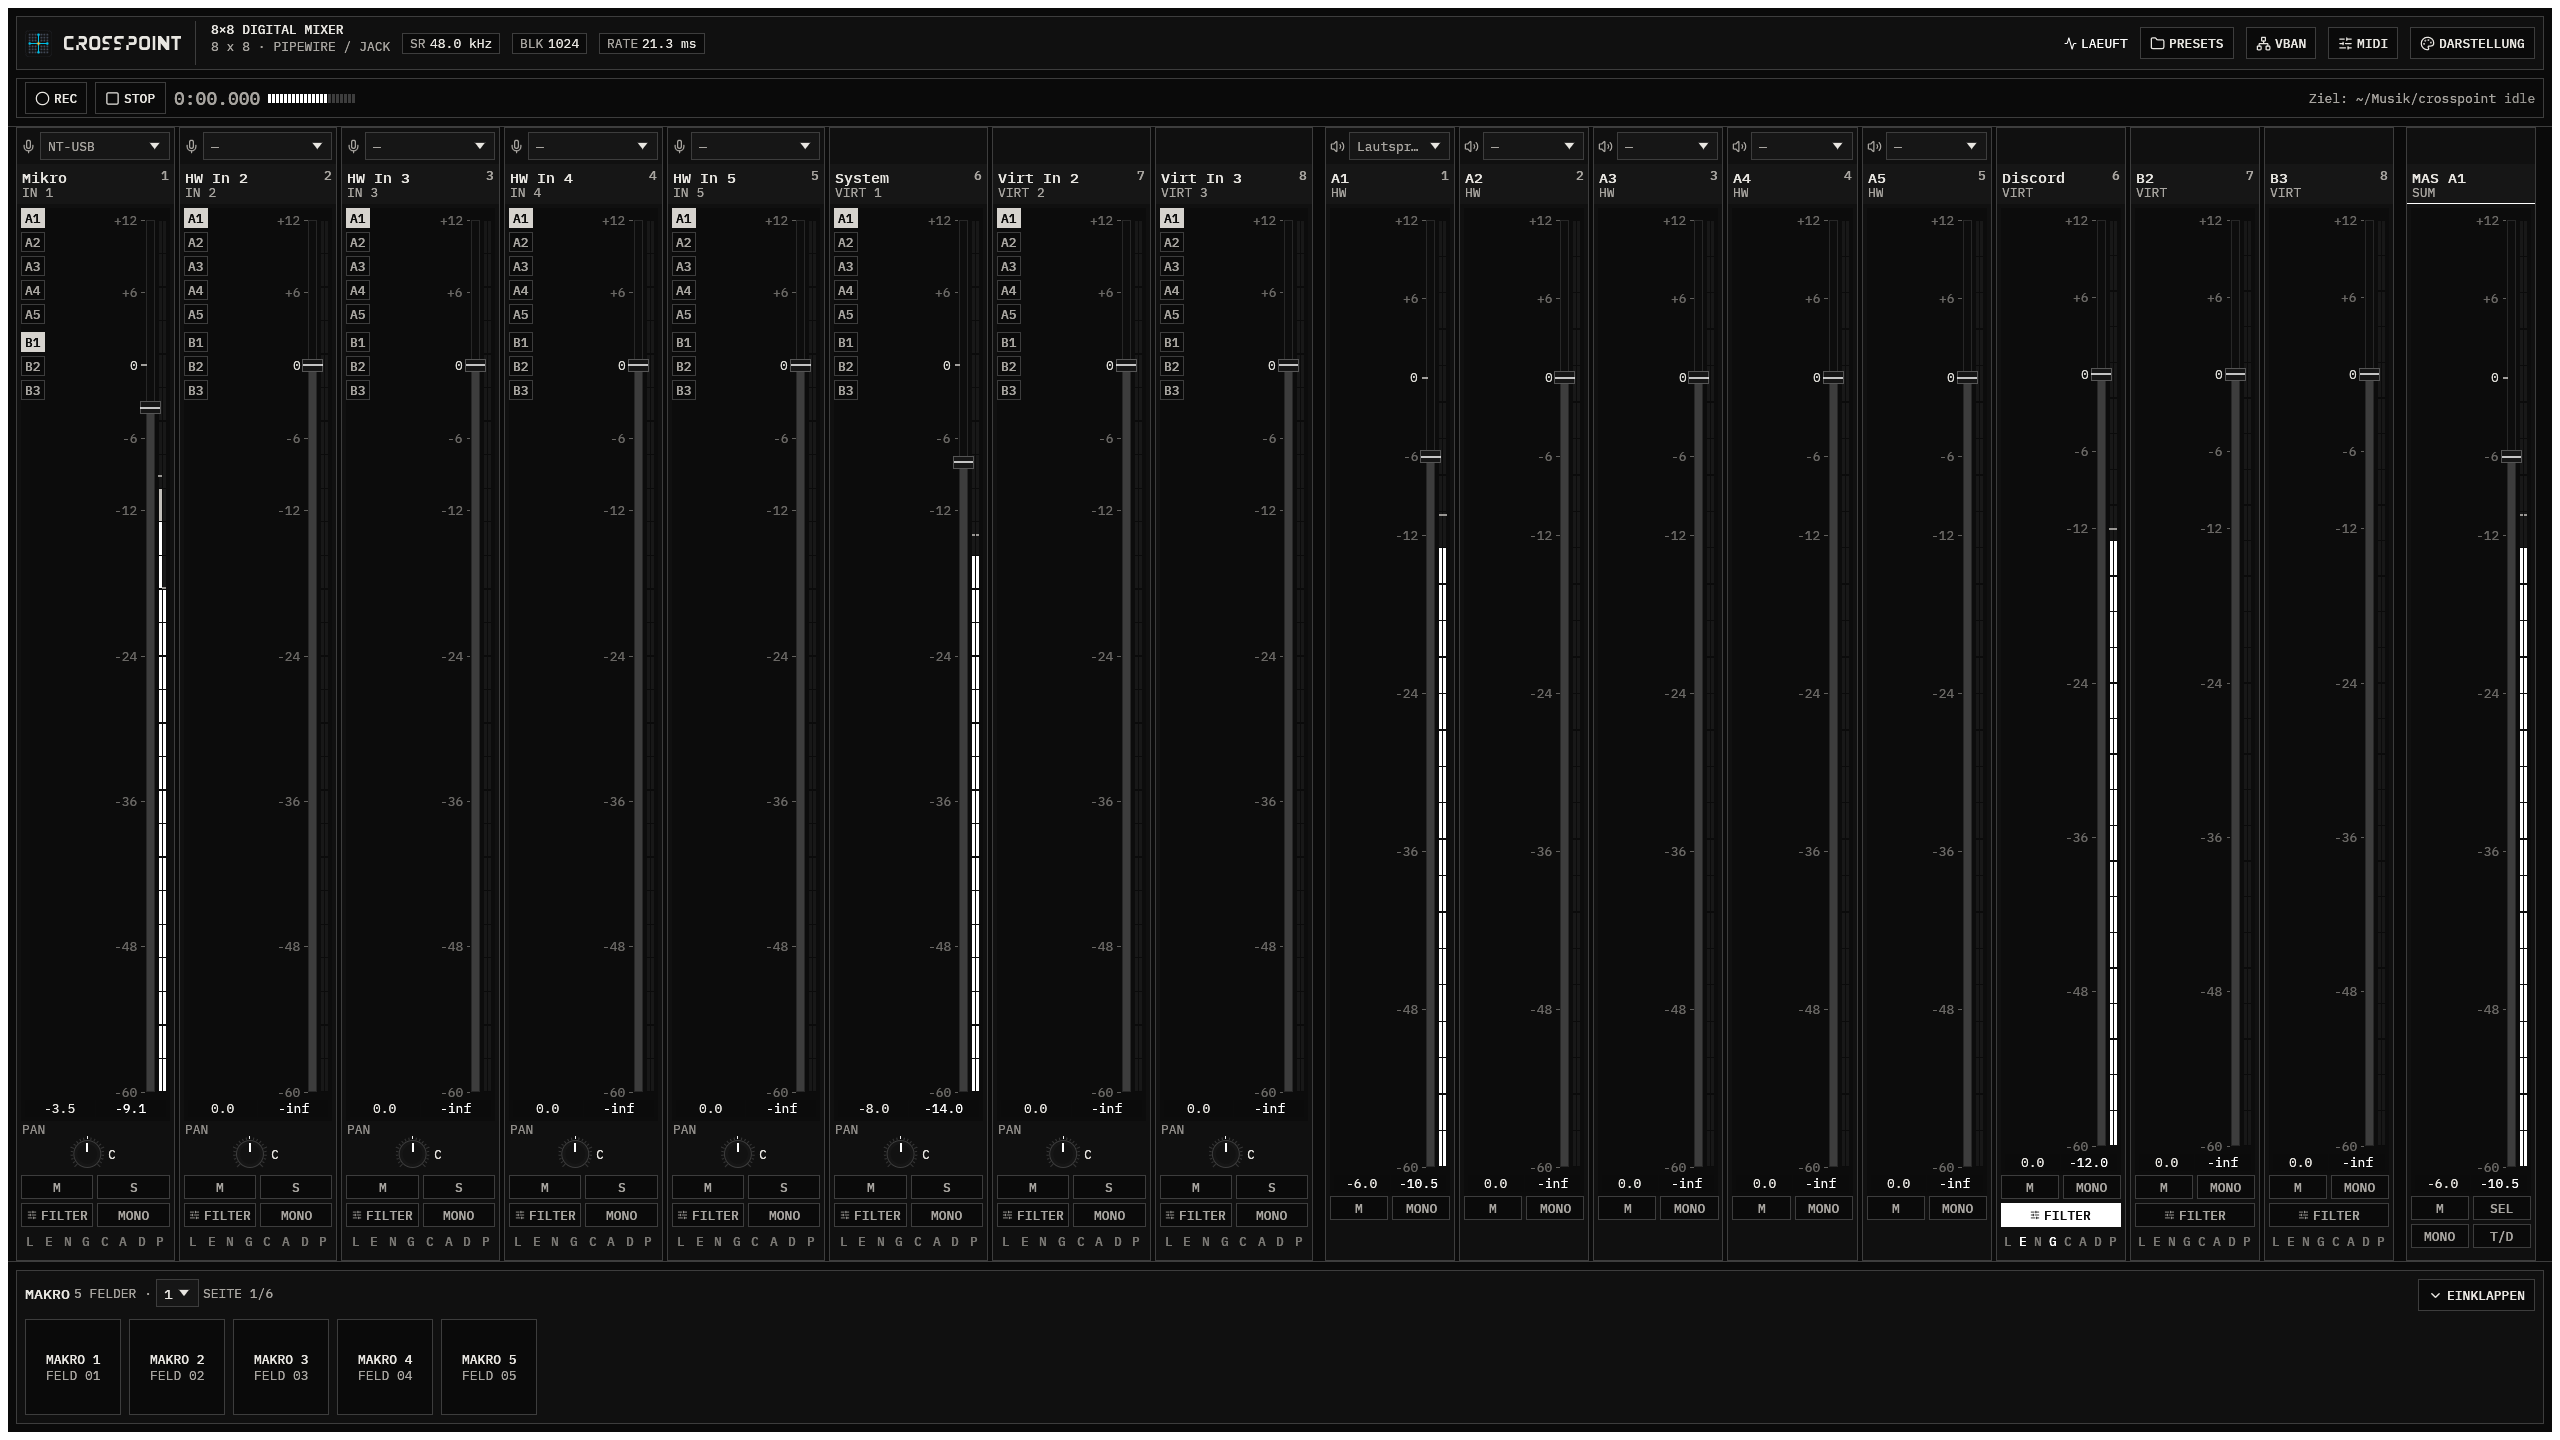
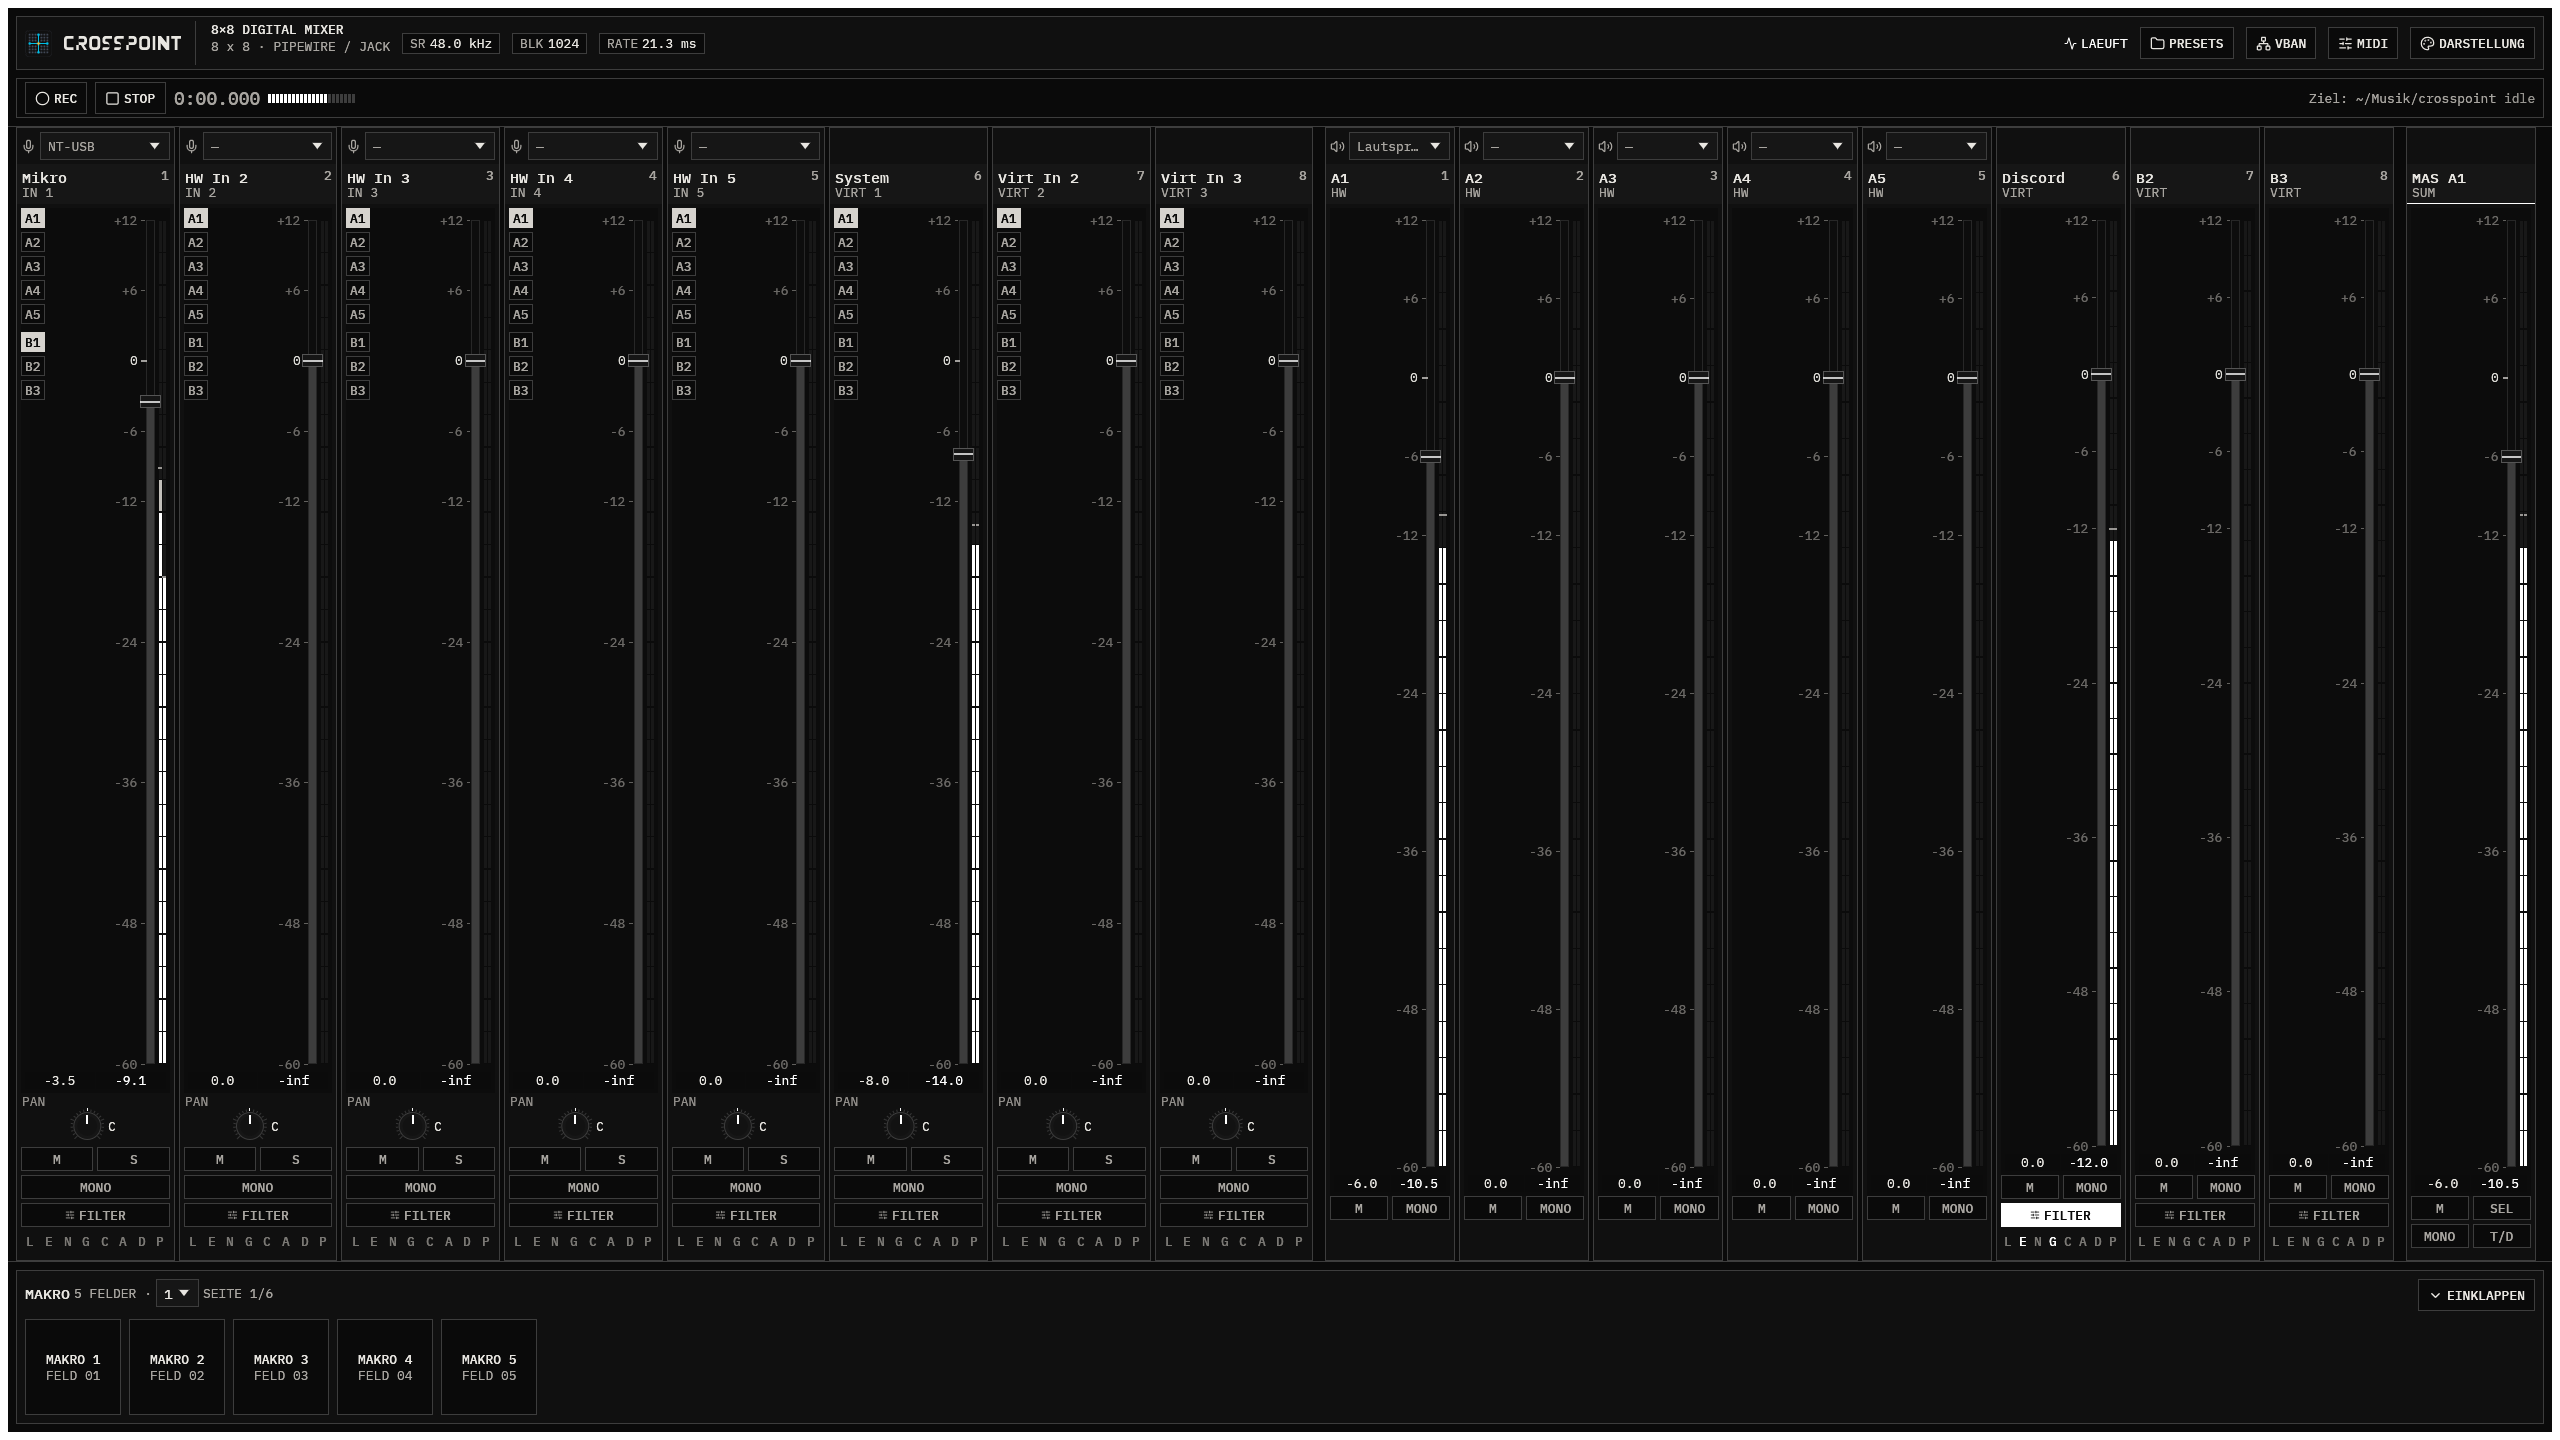
fix(fenster): FILTER-Knopf im Kanalzug läuft nicht mehr über (#29)
Im Kanalzug stand FILTER neben MONO auf halber Zugbreite – 47 px bei
1920, 36 px im schmalsten Fenster. „FILTER“ misst in der Pultschrift
54 px, und der Icon-Zweig von `schalter_gross` kürzte überhaupt nicht:
der Text lief aus dem Knopf.

- Der Kanalzug hat eine Schalterreihe mehr: M/S, MONO, FILTER. Der
  Filterknopf steht auf voller Breite (im schmalsten Zug 84 px).
- `bausteine::beschriftung` entscheidet aus dem gemessenen Platz, was
  gezeichnet wird: Bild und Wort, nur das Wort, nur das Bild. Die
  Entscheidung ist eine reine Funktion mit Test; der zugängliche Name
  und der Tooltip nennen den Filter in jedem Fall.
- `logik::schalterreihen` sagt, wie viele Reihen ein Zug hat, und
  `pult_mindesthoehe` rechnet die neue Reihe mit.

Bilder mit CROSSPOINT_BILDER neu erzeugt (dark, light, mono).

diff --git a/crates/fenster/src/bausteine.rs b/crates/fenster/src/bausteine.rs
@@ -126,6 +126,35 @@ fn titelleiste(ui: &mut Ui, f: &Farben, titel: &str, schliessen: &mut bool) {
     ui.separator();
 }
 
+/// Wie ein Schalter beschriftet wird, wenn Platz knapp ist.
+///
+/// Der FILTER-Knopf trägt Bild und Wort. Im schmalsten Kanalzug (100 px Zug,
+/// also 44 px Knopf) passt beides nicht; dann fällt zuerst das Bild weg, und
+/// wenn auch das Wort nicht mehr passt, bleibt das Bild allein stehen. Der
+/// Name bleibt in beiden Fällen der zugängliche Name und der Tooltip.
+#[derive(Debug, Clone, Copy, PartialEq, Eq)]
+pub enum Beschriftung {
+    IconUndWort,
+    NurWort,
+    NurIcon,
+    /// Nicht einmal das Bild passt (kommt bei den Maßen des Pults nicht vor).
+    Nichts,
+}
+
+/// Was in `platz` passt: `wort` ist die gemessene Textbreite, `kante` die
+/// Kantenlänge des Bildes, `luecke` der Abstand dazwischen.
+pub fn beschriftung(platz: f32, wort: f32, kante: f32, luecke: f32) -> Beschriftung {
+    if kante + luecke + wort <= platz {
+        Beschriftung::IconUndWort
+    } else if wort <= platz {
+        Beschriftung::NurWort
+    } else if kante <= platz {
+        Beschriftung::NurIcon
+    } else {
+        Beschriftung::Nichts
+    }
+}
+
 /// Kürzt einen Text so, dass er einzeilig in `breite` passt (mit „…“).
 /// Gekürzt wird nur die Anzeige; der volle Text gehört in den Tooltip.
 /// `font` ist die Schrift, in der der Text wirklich gezeichnet wird – sonst
@@ -773,23 +802,49 @@ fn schalter_gross(
             let galley = p.layout_no_wrap(text.to_string(), font, schrift);
             let kante = schriftgroesse * 0.8;
             let luecke = thema::SPACE_1;
-            let gesamt = kante + luecke + galley.size().x;
-            let links = rect.center().x - gesamt * 0.5;
-            icon.bild(kante, schrift).paint_at(
-                ui,
-                Rect::from_center_size(
-                    Pos2::new(links + kante * 0.5, rect.center().y),
-                    Vec2::splat(kante),
-                ),
-            );
-            p.galley(
-                Pos2::new(
-                    links + kante + luecke,
-                    rect.center().y - galley.size().y * 0.5,
-                ),
-                galley,
-                schrift,
-            );
+            let platz = rect.width() - 2.0 * thema::SPACE_1;
+            match beschriftung(platz, galley.size().x, kante, luecke) {
+                // Beides: Icon und Wort mittig zusammen.
+                Beschriftung::IconUndWort => {
+                    let gesamt = kante + luecke + galley.size().x;
+                    let links = rect.center().x - gesamt * 0.5;
+                    icon.bild(kante, schrift).paint_at(
+                        ui,
+                        Rect::from_center_size(
+                            Pos2::new(links + kante * 0.5, rect.center().y),
+                            Vec2::splat(kante),
+                        ),
+                    );
+                    p.galley(
+                        Pos2::new(
+                            links + kante + luecke,
+                            rect.center().y - galley.size().y * 0.5,
+                        ),
+                        galley,
+                        schrift,
+                    );
+                }
+                // Das Wort allein (schmaler Kanalzug: „FILTER“ ohne Bild).
+                Beschriftung::NurWort => {
+                    p.galley(
+                        Pos2::new(
+                            rect.center().x - galley.size().x * 0.5,
+                            rect.center().y - galley.size().y * 0.5,
+                        ),
+                        galley,
+                        schrift,
+                    );
+                }
+                // Weder noch: nur das Bild. Der Name bleibt im Tooltip und im
+                // zugänglichen Namen.
+                Beschriftung::NurIcon => {
+                    icon.bild(kante, schrift).paint_at(
+                        ui,
+                        Rect::from_center_size(rect.center(), Vec2::splat(kante)),
+                    );
+                }
+                Beschriftung::Nichts => {}
+            }
         }
     }
     if response.has_focus() {
@@ -1318,5 +1373,38 @@ mod tests {
         assert_eq!(thema_icon(Thema::Hell), Icon::Sonne);
         assert_eq!(thema_icon(Thema::Dunkel), Icon::Mond);
         assert_eq!(thema_icon(Thema::Mono), Icon::Kontrast);
+    }
+
+    /// Der FILTER-Knopf im Kanalzug: bei 1920 px ist der Zug rund 122 px
+    /// breit, der halbe Knopf also 55 px – „FILTER“ passt ohne Bild. Im
+    /// schmalsten Zug (100 px, halber Knopf 44 px) passt nur noch das Bild,
+    /// aber nie beides. Nichts darf über den Rand laufen.
+    #[test]
+    fn beschriftung_folgt_dem_platz() {
+        let wort = 38.0; // „FILTER“ in 13 px fett, gemessen
+        let kante = 10.4; // 0,8 × Schriftgröße
+        let luecke = 4.0;
+        assert_eq!(
+            beschriftung(120.0, wort, kante, luecke),
+            Beschriftung::IconUndWort
+        );
+        assert_eq!(
+            beschriftung(47.0, wort, kante, luecke),
+            Beschriftung::NurWort
+        );
+        assert_eq!(
+            beschriftung(36.0, wort, kante, luecke),
+            Beschriftung::NurIcon
+        );
+        assert_eq!(beschriftung(8.0, wort, kante, luecke), Beschriftung::Nichts);
+        // Grenzen: genau passend ist noch „passt“.
+        assert_eq!(
+            beschriftung(wort + kante + luecke, wort, kante, luecke),
+            Beschriftung::IconUndWort
+        );
+        assert_eq!(
+            beschriftung(wort, wort, kante, luecke),
+            Beschriftung::NurWort
+        );
     }
 }

diff --git a/crates/fenster/src/ansichten/zug.rs b/crates/fenster/src/ansichten/zug.rs
@@ -134,7 +134,8 @@ fn inhalt(
         None
     };
     let schalter_y = y;
-    let lampen_y = schalter_y + 2.0 * (logik::ZUG_REIHE + pad);
+    let lampen_y = schalter_y
+        + logik::schalterreihen(filter.is_some(), ist_kanal) as f32 * (logik::ZUG_REIHE + pad);
 
     if let (Some(py), Some(pan)) = (pan_y, werte.pan) {
         let rp = Rect::from_min_size(
@@ -200,13 +201,17 @@ fn inhalt(
             if knopf(ui, platz(0, 1, 2), "S", solo, Art::Solo).clicked() {
                 a.push(setzen(ziel, "solo", schalter_wert(!solo)));
             }
-            // Seit ADR 0011 hat auch der Kanalzug eine Filterkette: FILTER links,
-            // MONO rechts daneben, darunter die Lämpchenreihe.
+            // Seit ADR 0011 hat auch der Kanalzug eine Filterkette. Der Knopf
+            // steht auf einer eigenen Reihe: „FILTER“ ist 54 px breit und passt
+            // in keinen halben Zug; MONO bleibt wie bisher volle Breite.
             if let Some(fw) = filter {
+                if knopf(ui, platz(1, 0, 1), "MONO", werte.mono, Art::Tief).clicked() {
+                    a.push(setzen(ziel, "mono", schalter_wert(!werte.mono)));
+                }
                 filter_knopf(
                     ui,
                     f,
-                    platz(1, 0, 2),
+                    platz(2, 0, 1),
                     Rect::from_min_size(Pos2::new(links, lampen_y), Vec2::new(breite, LAEMPCHEN)),
                     ziel,
                     o,
@@ -214,9 +219,6 @@ fn inhalt(
                     fw,
                     a,
                 );
-                if knopf(ui, platz(1, 1, 2), "MONO", werte.mono, Art::Tief).clicked() {
-                    a.push(setzen(ziel, "mono", schalter_wert(!werte.mono)));
-                }
             } else if knopf(ui, platz(1, 0, 1), "MONO", werte.mono, Art::Tief).clicked() {
                 a.push(setzen(ziel, "mono", schalter_wert(!werte.mono)));
             }

diff --git a/crates/fenster/src/logik.rs b/crates/fenster/src/logik.rs
@@ -709,6 +709,18 @@ pub const ZUG_LAEMPCHEN: f32 = thema::FONT_SIZE_SM + thema::SPACE_2;
 /// Rahmenlinie eines Zugs (oben und unten je einmal).
 pub const ZUG_RAHMEN: f32 = thema::SIZE_BORDER;
 
+/// Wie viele Reihen Schalter ein Zug hat. Ein Kanalzug mit Filterkette hat
+/// eine mehr als die übrigen: M/S, MONO, FILTER (ADR 0011). „FILTER“ allein
+/// ist 54 px breit und passt in keinen halben Zug, also steht der Knopf auf
+/// einer eigenen Reihe.
+pub fn schalterreihen(filterbus: bool, kanal: bool) -> usize {
+    if filterbus && kanal {
+        3
+    } else {
+        2
+    }
+}
+
 /// Was ein Zug über und unter dem Fader braucht; den Rest der Höhe bekommt
 /// der Fader. `ansichten::zug` setzt die Zeilen damit untereinander, und
 /// [`pult_mindesthoehe`] rechnet daraus die Mindesthöhe des Fensters.
@@ -716,7 +728,7 @@ pub const ZUG_RAHMEN: f32 = thema::SIZE_BORDER;
 pub struct ZugMass {
     /// Pan (nur Kanäle, sonst 0); die Zuordnung steht neben dem Fader.
     pub kanal_teil: f32,
-    /// Zwei Reihen Schalter mit ihren Lücken.
+    /// Reihen Schalter mit ihren Lücken.
     pub schalter: f32,
     /// Lämpchenzeile der Filterbusse und des Masters daran (sonst 0).
     pub lampen: f32,
@@ -732,7 +744,7 @@ impl ZugMass {
             } else {
                 0.0
             },
-            schalter: 2.0 * (ZUG_REIHE + ZUG_RAND),
+            schalter: schalterreihen(filterbus, kanal) as f32 * (ZUG_REIHE + ZUG_RAND),
             lampen: if filterbus { ZUG_LAEMPCHEN } else { 0.0 },
         }
     }
